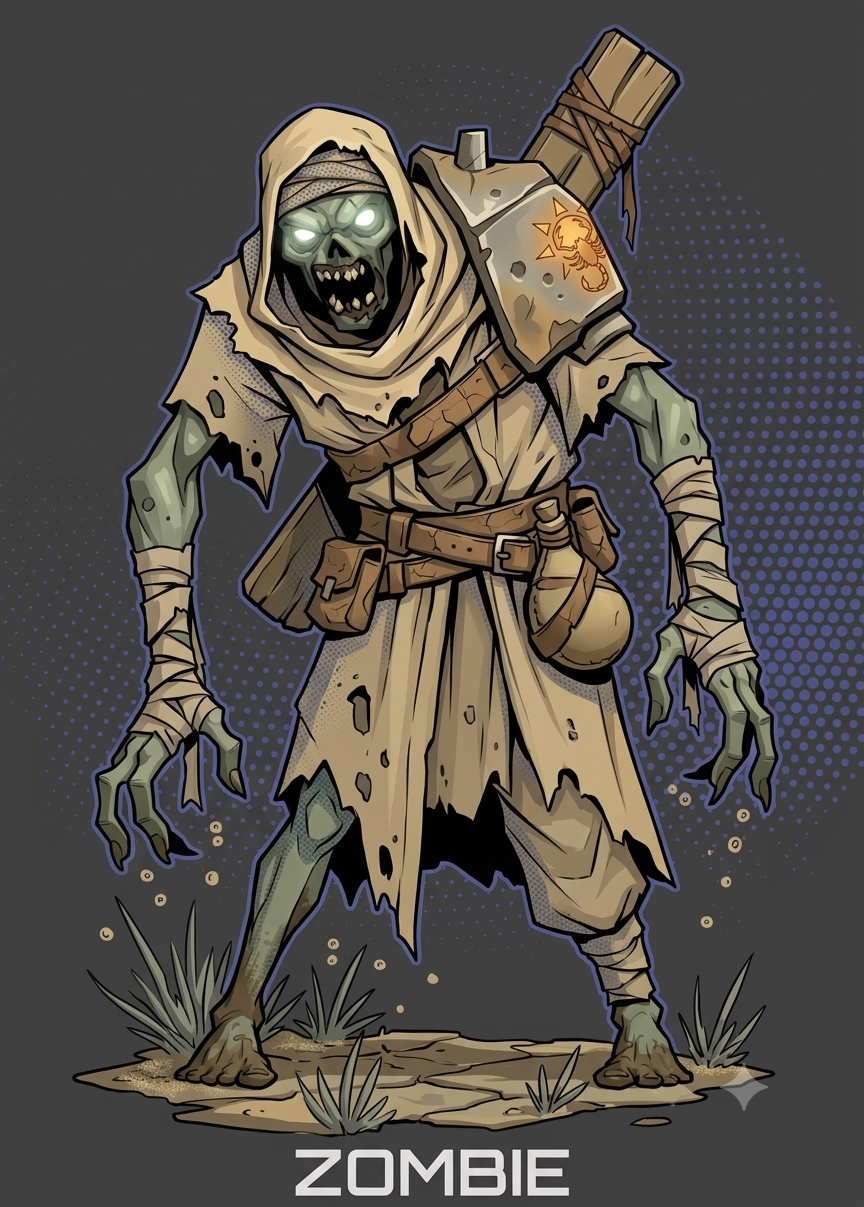
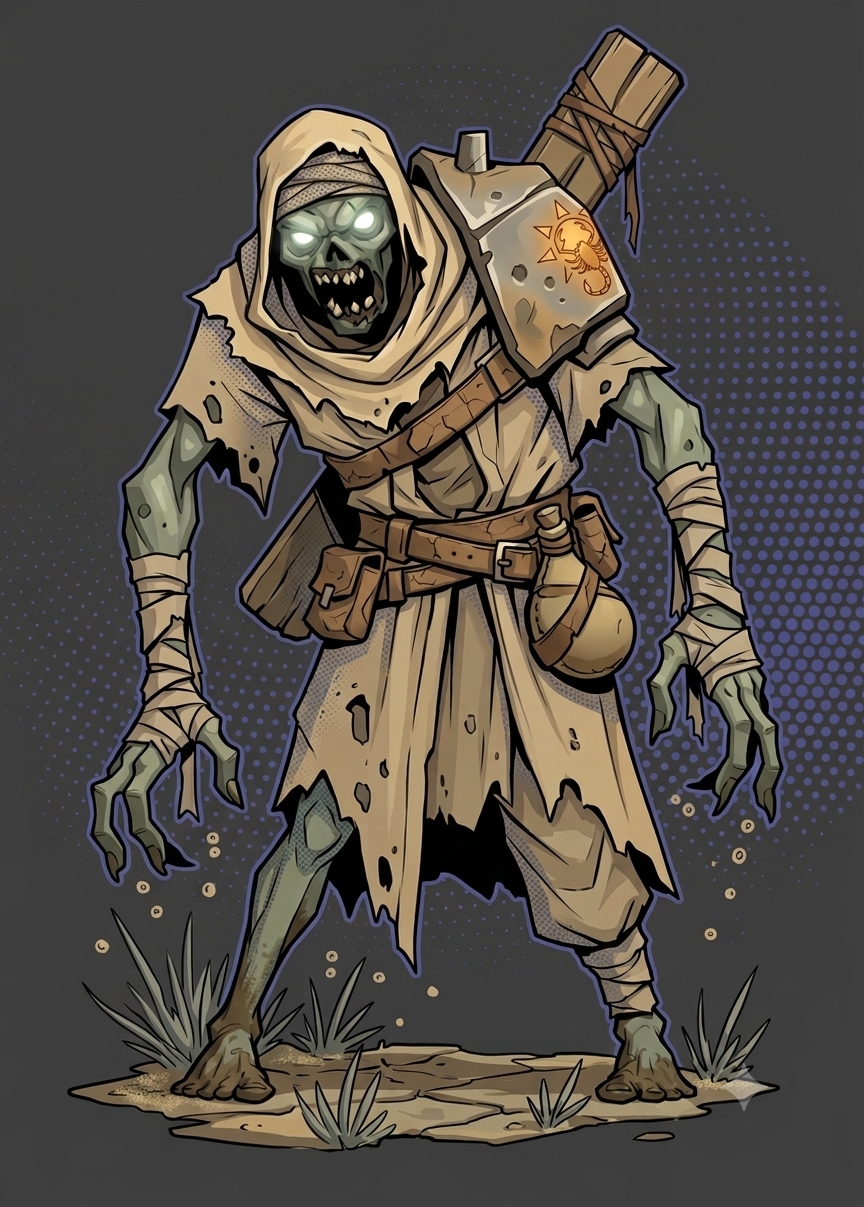
save

diff --git a/AppName/src/pages/dashboard/components/BoardTiles/BoardTiles.jsx b/AppName/src/pages/dashboard/components/BoardTiles/BoardTiles.jsx
@@ -3,6 +3,7 @@ import { useEffect, useMemo, useState } from 'react';
 import './BoardTiles.css';
 
 import zombie from '../../data/encounerImg/zombie.png';
+import TVheadImg from '../../data/encounerImg/TVhead.png';
 import QuickSlashImg from '../../data/actionCards/QuickSlashCommon.png';
 import PummelImg from '../../data/actionCards/PummelCommon.png';
 import HeavySlamImg from '../../data/actionCards/HeavySlamRare.png';
@@ -222,7 +223,10 @@ function BoardTiles({ tiles, selectedTileId, onSelectTile, selectedTile, players
               
               {/* Event Description */}
               <div className="tile-detail__section">
-                <p className="tile-detail__section-title">Event Description</p>
+                <div className="tile-detail__section-header">
+                  <p className="tile-detail__section-title">Event Description</p>
+                  <span className="tile-detail__section-pill">Read to player</span>
+                </div>
                 <div className="tile-detail__text-row">
                   <strong>Environment</strong>
                   <span>{selectedTile.details.environment}</span>
@@ -231,30 +235,47 @@ function BoardTiles({ tiles, selectedTileId, onSelectTile, selectedTile, players
               
               {/* NPC Block */}
               {(selectedTile.details.npcAppearance || selectedTile.details.npcImage || selectedTile.details.voiceStyle || selectedTile.details.npcLabel) && (
-                <div className="tile-detail__section tile-detail__npc-block">
-                  <div className="tile-detail__npc-image">
-                    <div className="tile-detail__portrait-flair">{selectedTile.details.npcLabel || 'NPC'}</div>
-                    <span>{selectedTile.details.npcImage ? 'Image placeholder' : 'NPC'}</span>
+                <div className="tile-detail__section tile-detail__npc-section">
+                    <div className="tile-detail__section-header tile-detail__section-header--npc">
+                    <p className="tile-detail__section-title">NPC</p>
+                    <span className="tile-detail__section-pill tile-detail__section-pill--npc">NPC Info</span>
                   </div>
-                  <div className="tile-detail__npc-copy">
-                    {selectedTile.details.npcAppearance && (
-                      <div className="tile-detail__text-row">
-                        <strong>NPC Appearance</strong>
-                        <span>{selectedTile.details.npcAppearance}</span>
-                      </div>
-                    )}
-                    {selectedTile.details.voiceStyle && (
-                      <div className="tile-detail__text-row">
-                        <strong>Voice Style</strong>
-                        <span>{selectedTile.details.voiceStyle}</span>
-                      </div>
-                    )}
+                  <div className="tile-detail__npc-block">
+                    <div className="tile-detail__npc-image">
+                      {selectedTile.details.npcImage ? (
+                        <img
+                          src={selectedTile.details.npcImage === 'TVhead.png' ? TVheadImg : selectedTile.details.npcImage}
+                          alt={selectedTile.details.npcLabel || 'NPC'}
+                          className="tile-detail__npc-image-img"
+                          onError={(e) => { e.currentTarget.onerror = null; e.currentTarget.style.display = 'none'; }}
+                        />
+                      ) : (
+                        <span>NPC</span>
+                      )}
+                    </div>
+                    <div className="tile-detail__npc-copy">
+                      {selectedTile.details.npcAppearance && (
+                        <div className="tile-detail__text-row">
+                          <strong>NPC Appearance</strong>
+                          <span>{selectedTile.details.npcAppearance}</span>
+                        </div>
+                      )}
+                      {selectedTile.details.voiceStyle && (
+                        <div className="tile-detail__text-row">
+                          <strong>Voice Style</strong>
+                          <span>{selectedTile.details.voiceStyle}</span>
+                        </div>
+                      )}
+                    </div>
                   </div>
                 </div>
               )}
               
               <div className="tile-detail__section">
-                <p className="tile-detail__section-title">Event Story</p>
+                <div className="tile-detail__section-header">
+                  <p className="tile-detail__section-title">Event Story</p>
+                  <span className="tile-detail__section-pill">Read to player</span>
+                </div>
                 <span>{selectedTile.details.eventStory}</span>
               </div>
               
@@ -486,7 +507,10 @@ function BoardTiles({ tiles, selectedTileId, onSelectTile, selectedTile, players
 
               {selectedTile.details.dialogue && (
                 <div className="tile-detail__section">
-                  <p className="tile-detail__section-title">Dialogue</p>
+                  <div className="tile-detail__section-header">
+                    <p className="tile-detail__section-title">Dialogue</p>
+                    <span className="tile-detail__section-pill">Read to player</span>
+                  </div>
                   <span>{selectedTile.details.dialogue}</span>
                 </div>
               )}

diff --git a/AppName/src/pages/dashboard/components/BoardTiles/BoardTiles.css b/AppName/src/pages/dashboard/components/BoardTiles/BoardTiles.css
@@ -153,6 +153,36 @@
   border: 1px solid rgba(255, 255, 255, 0.05);
 }
 
+.tile-detail__section-header {
+  display: flex;
+  justify-content: space-between;
+  align-items: flex-start;
+  gap: 12px;
+}
+
+.tile-detail__section-pill {
+  white-space: nowrap;
+  align-self: flex-start;
+  font-size: 11px;
+  letter-spacing: 0.06em;
+  text-transform: uppercase;
+  padding: 6px 10px;
+  border-radius: 999px;
+  background: rgba(247, 128, 0, 0.18);
+  color: rgba(255, 160, 64, 0.98) !important;
+}
+
+.tile-detail__section-pill--npc {
+  background: rgba(0, 113, 255, 0.18);
+  color: rgba(128, 199, 255, 0.98) !important;
+}
+
+.tile-detail__npc-section {
+  display: flex;
+  flex-direction: column;
+  gap: 16px;
+}
+
 .tile-detail__npc-block {
   display: flex;
   flex-direction: row;
@@ -160,22 +190,30 @@
   gap: 16px;
 }
 
-.tile-detail__npc-image {
-  display: flex;
-  flex-direction: column;
-  justify-content: center;
-  align-items: center;
-  flex-shrink: 0;
-  width: 160px;
-  min-height: 140px;
-  padding: 16px;
+
+
+.tile-detail__npc-image-img {
+  width: 100%;
+  height: auto;
   border-radius: 18px;
-  border: 1px solid rgba(255, 255, 255, 0.06);
-  background: rgba(255, 255, 255, 0.04);
-  color: rgba(255, 255, 255, 0.72);
-  text-align: center;
-  font-size: 12px;
-  box-sizing: border-box;
+  margin-top: -12px;
+  max-height: 220px;
+  object-fit: cover;
+  display: block;
+}
+
+.tile-detail__npc-image-badge {
+  position: absolute;
+  top: 10px;
+  left: 50%;
+  transform: translateX(-50%);
+  padding: 6px 12px;
+  border-radius: 999px;
+  background: rgba(255, 255, 255, 0.12);
+  color: rgba(255, 255, 255, 0.95);
+  font-size: 10px;
+  letter-spacing: 0.08em;
+  text-transform: uppercase;
 }
 
 .tile-detail__npc-copy {

diff --git a/AppName/src/pages/dashboard/data/tiles.js b/AppName/src/pages/dashboard/data/tiles.js
@@ -14,7 +14,7 @@ export const tiles = [
         'Standing before you is a tall, slender figure wearing a tailored, jet-black business suit, crisp white shirt, and black tie. In place of a head sits a retro CRT television monitor flickering with static, color bars, and a pulsing digital mono-eye.',
       voiceStyle:
         'Smooth, theatrical, and charismatic—like a classic game show host—backed by a gentle background hum of electronic static and pitch modulation.',
-      npcImage: '110056784640263567.jpeg',
+      npcImage: 'TVhead.png',
       eventStory:
         'As your vision clears, you brush the sand off your clothes. The TV-headed figure applauds with quiet, slow claps, his monitor flickering to a wide smiling icon before returning to color bars.',
       dialogue:
@@ -67,7 +67,7 @@ export const tiles = [
     details: {
       environment:
         'An overturned, sun-bleached wooden merchant carriage lies collapsed against a boulder, its wheels broken and splintered.',
-      eventStory - read to players:
+      eventStory:
         'You inspect the abandoned wreckage. Cloth sacks and shattered glass jars lie strewn about, but beneath a fallen wooden axle, a reinforced iron lockbox remains intact.',
       reward: 'Chest Loot: each player draws 1 Action Card.',
     },
